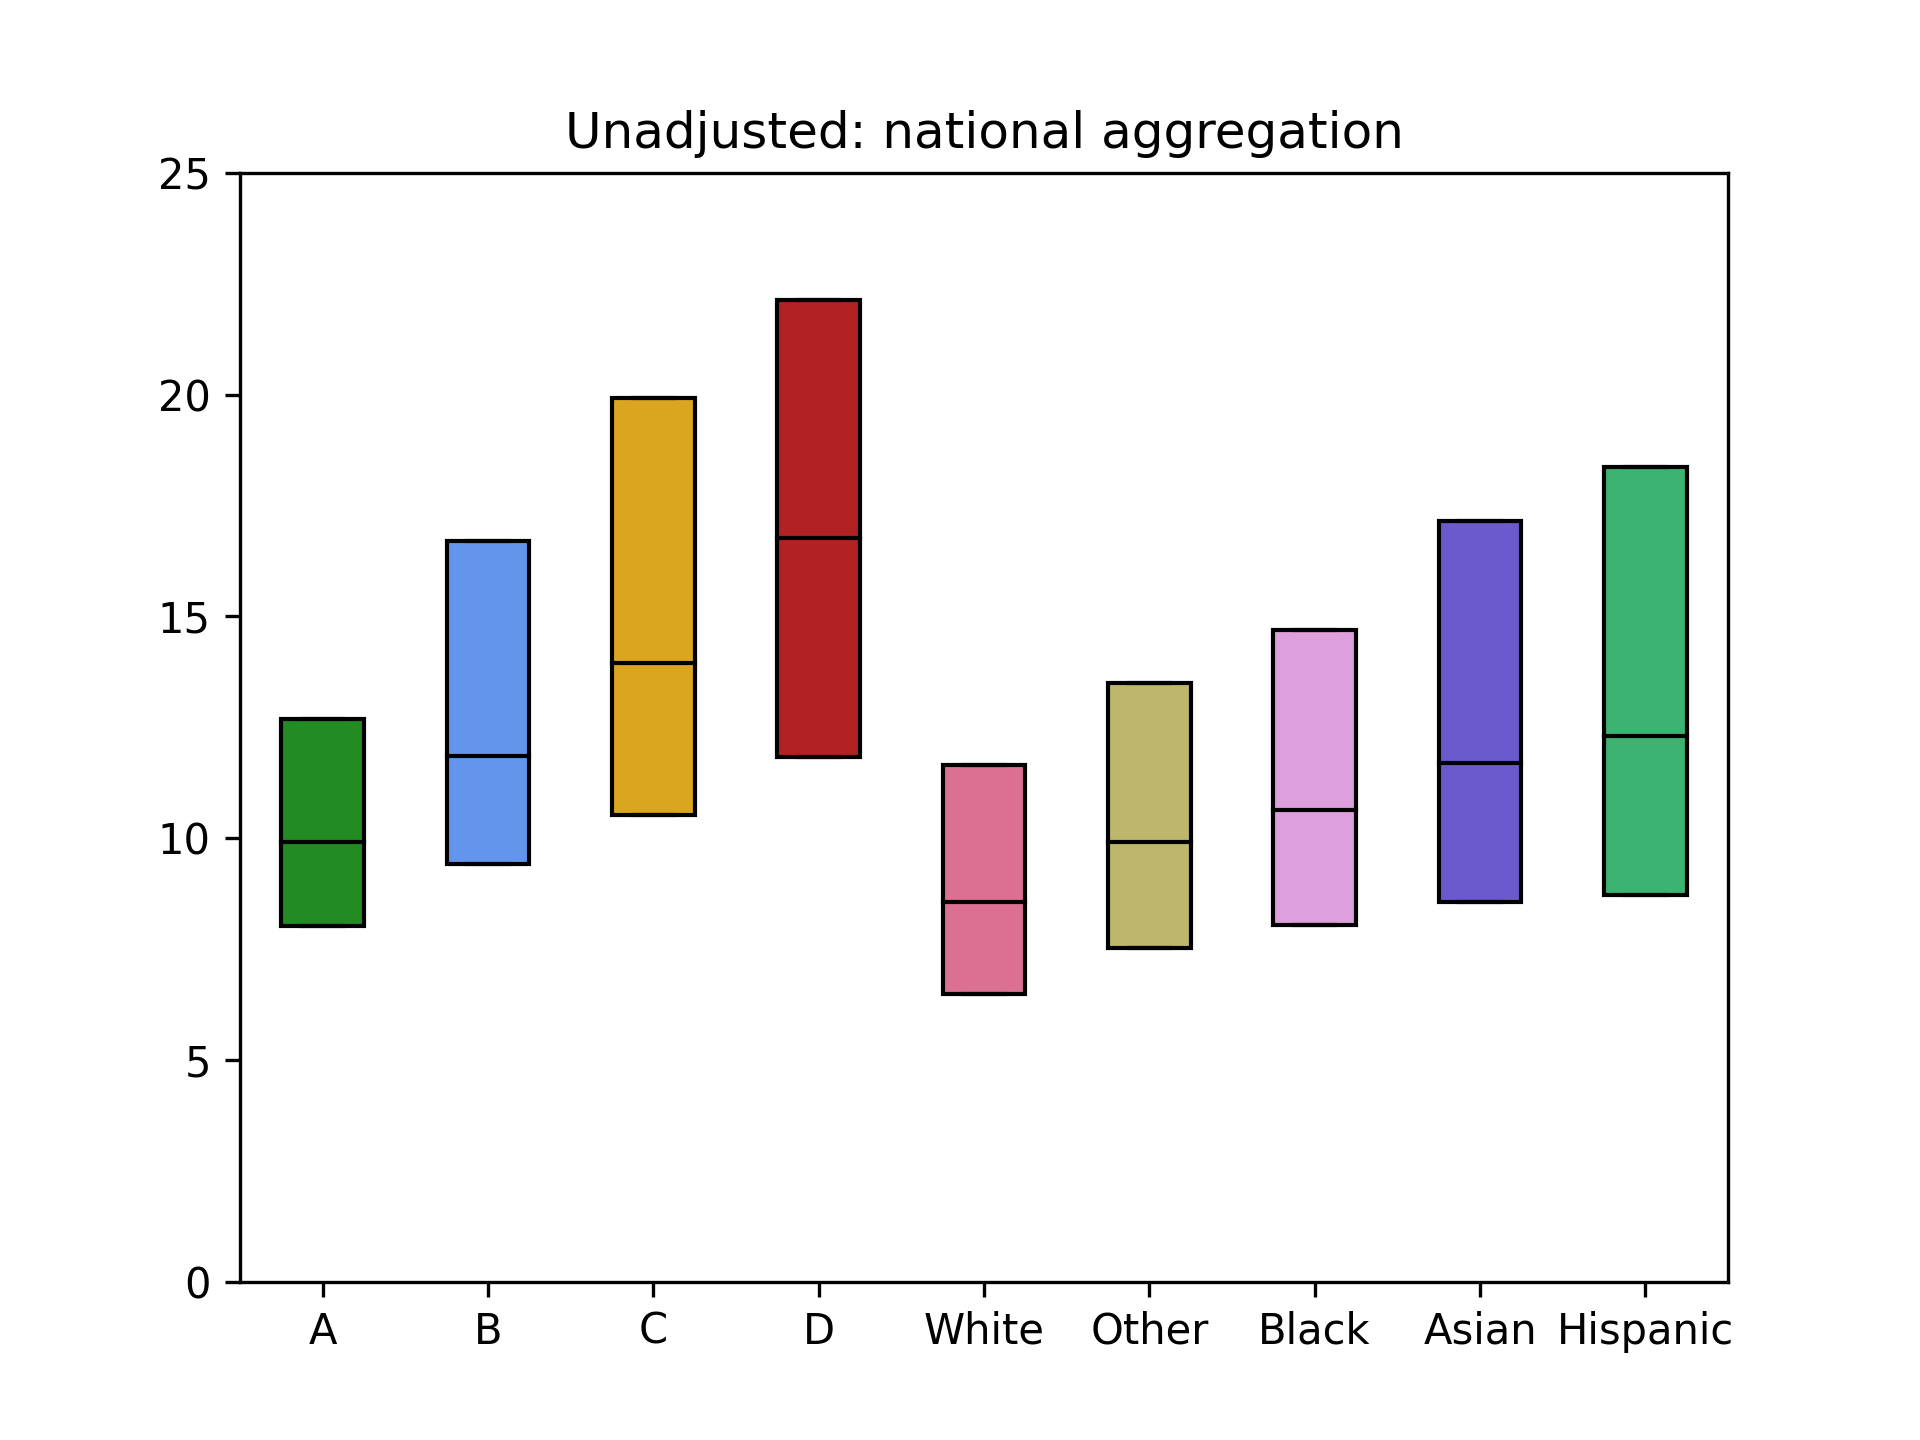
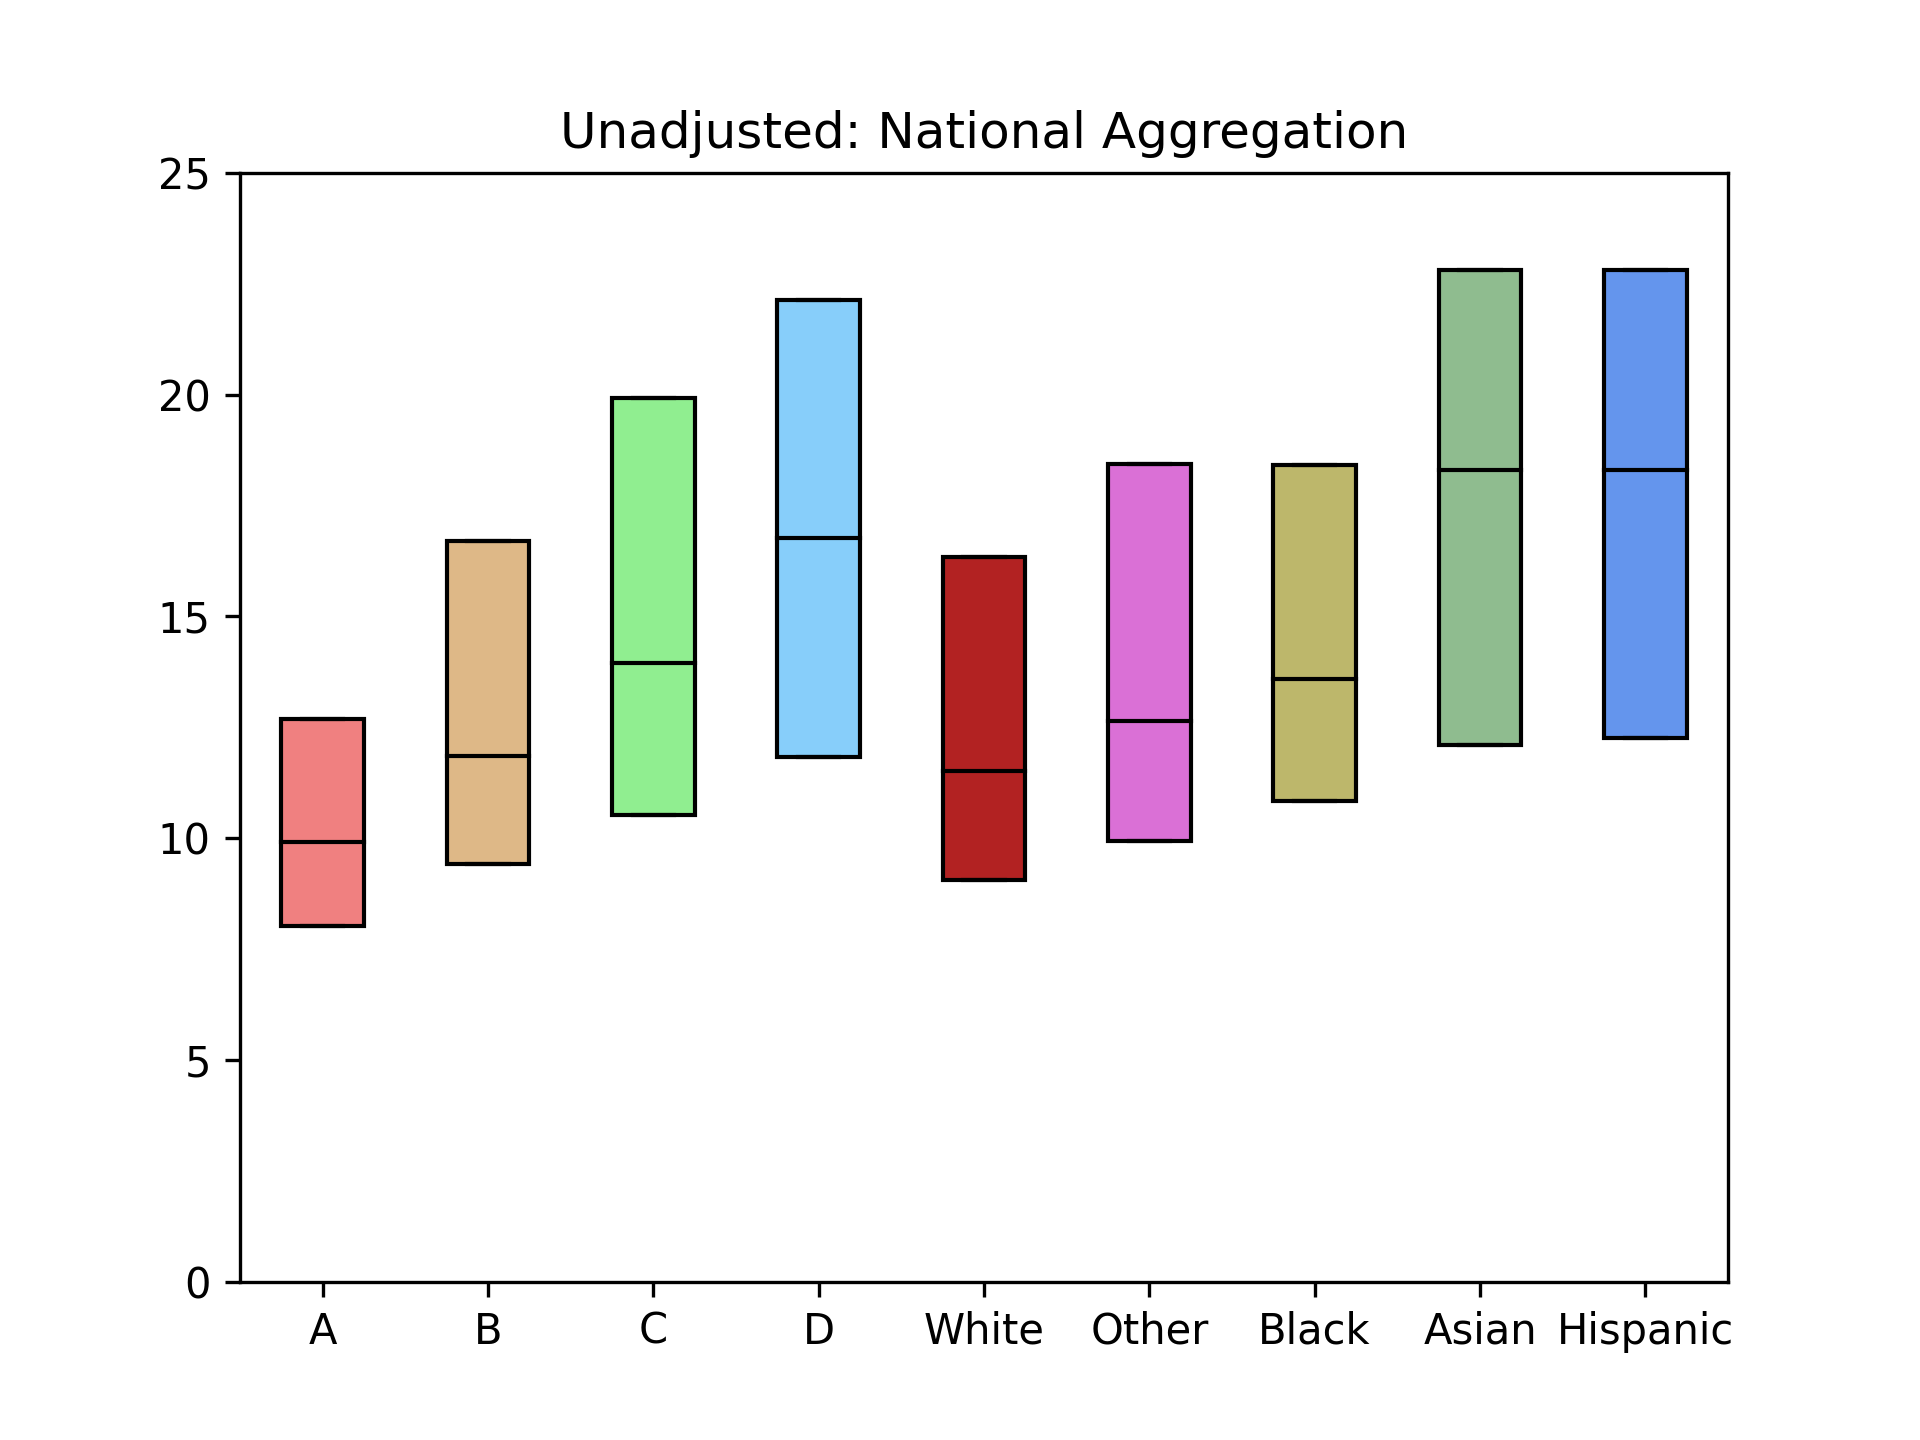
fixed major number discrepancy

diff --git a/no2-unadjusted.py b/no2-unadjusted.py
@@ -18,9 +18,6 @@ no2_black     = []
 no2_asian     = []
 no2_hispanic  = []
 
-# The population-weighted distribution of NO2 concentrations by HOLC grade
-# appears identical to that shown in Figure 1(a). However, similar approach
-# to plot distribution by race/ethnicity yields different numbers.
 for i in df.index:
    if df['Grade'][i] == 'A':
       no2_A += (round(df['Total'][i] * df['PHOLC'][i]) * [df['NO2'][i]])
@@ -30,59 +27,27 @@ for i in df.index:
       no2_C += (round(df['Total'][i] * df['PHOLC'][i]) * [df['NO2'][i]])
    if df['Grade'][i] == 'D':
       no2_D += (round(df['Total'][i] * df['PHOLC'][i]) * [df['NO2'][i]])
-   # See here: Population-weighted distribution of NO2 levels generated using
-   # this approach yields numbers that differ from the figures displayed in the
-   # study.
-   if (df['White'][i] > 0):
+   if df['Grade'][i] != 'N':
       no2_white += (df['White'][i] * [df['NO2'][i]])
-   if (df['Other'][i] > 0):
       no2_other += (df['Other'][i] * [df['NO2'][i]])
-   if (df['Black'][i] > 0):
       no2_black += (df['Black'][i] * [df['NO2'][i]])
-   if (df['Asian'][i] > 0):
       no2_asian += (df['Asian'][i] * [df['NO2'][i]])
-   if (df['Hispanic'][i] > 0):
       no2_hispanic += (df['Hispanic'][i] * [df['NO2'][i]])
 
 data = [no2_A, no2_B, no2_C, no2_D, no2_white, no2_other, no2_black, no2_asian, no2_hispanic]
 labels = ['A', 'B', 'C', 'D', 'White', 'Other', 'Black', 'Asian', 'Hispanic']
 
-fig1, ax1 = plt.subplots(nrows = 1, ncols = 1)
-no2_plot = ax1.boxplot(data, labels = labels, patch_artist = True, showfliers = False, vert = True, whis = 0)
-ax1.set_title('Unadjusted: national aggregation')
+fig, ax = plt.subplots(nrows = 1, ncols = 1)
+plot = ax.boxplot(data, labels = labels, patch_artist = True, showfliers = False, vert = True, whis = 0)
+ax.set_title('Unadjusted: National Aggregation')
 
-ax1.set_ylim(0, 25)
-for median in no2_plot['medians']:
+ax.set_ylim(0, 25)
+for median in plot['medians']:
    median.set_color('black')
 
-colors = ['forestgreen', 'cornflowerblue', 'goldenrod', 'firebrick', 'palevioletred', 'darkkhaki', 'plum', 'slateblue', 'mediumseagreen']
-for patch, color in zip(no2_plot['boxes'], colors):
+colors = ['lightcoral', 'burlywood', 'lightgreen', 'lightskyblue',
+          'firebrick', 'orchid', 'darkkhaki', 'darkseagreen', 'cornflowerblue']
+for patch, color in zip(plot['boxes'], colors):
    patch.set_facecolor(color)
 
 plt.savefig('no2-unadjusted.png', dpi = 300)
-
-# The following function calculates a specific weighted percentile given a list
-# of values and corresponding weights. Provided in R by lead author Haley Lane,
-# translated to Python.
-#
-# This is an alternative, more efficient approach to the above problem; current
-# analysis yields the same numbers.
-def wtd_pct(x, w, p):
-   # x is value
-   # w is weight
-   # p is percentile
-   w = w[np.argsort(x)]
-   x = x[np.argsort(x)]
-
-   # remove NAs
-   t = (~np.isnan(w)) & (w > 0) & (~np.isnan(x))
-   x = x[t]
-   w = w[t]
-
-   w = np.cumsum(w) / np.sum(w)
-
-   r = x[np.max(np.arange(1, len(x) + 1) * (w <= p))]
-   if np.isnan(r):
-      r = x[np.min(np.arrange(1, len(x) + 1) * (w >= p))]
-   
-   return r
